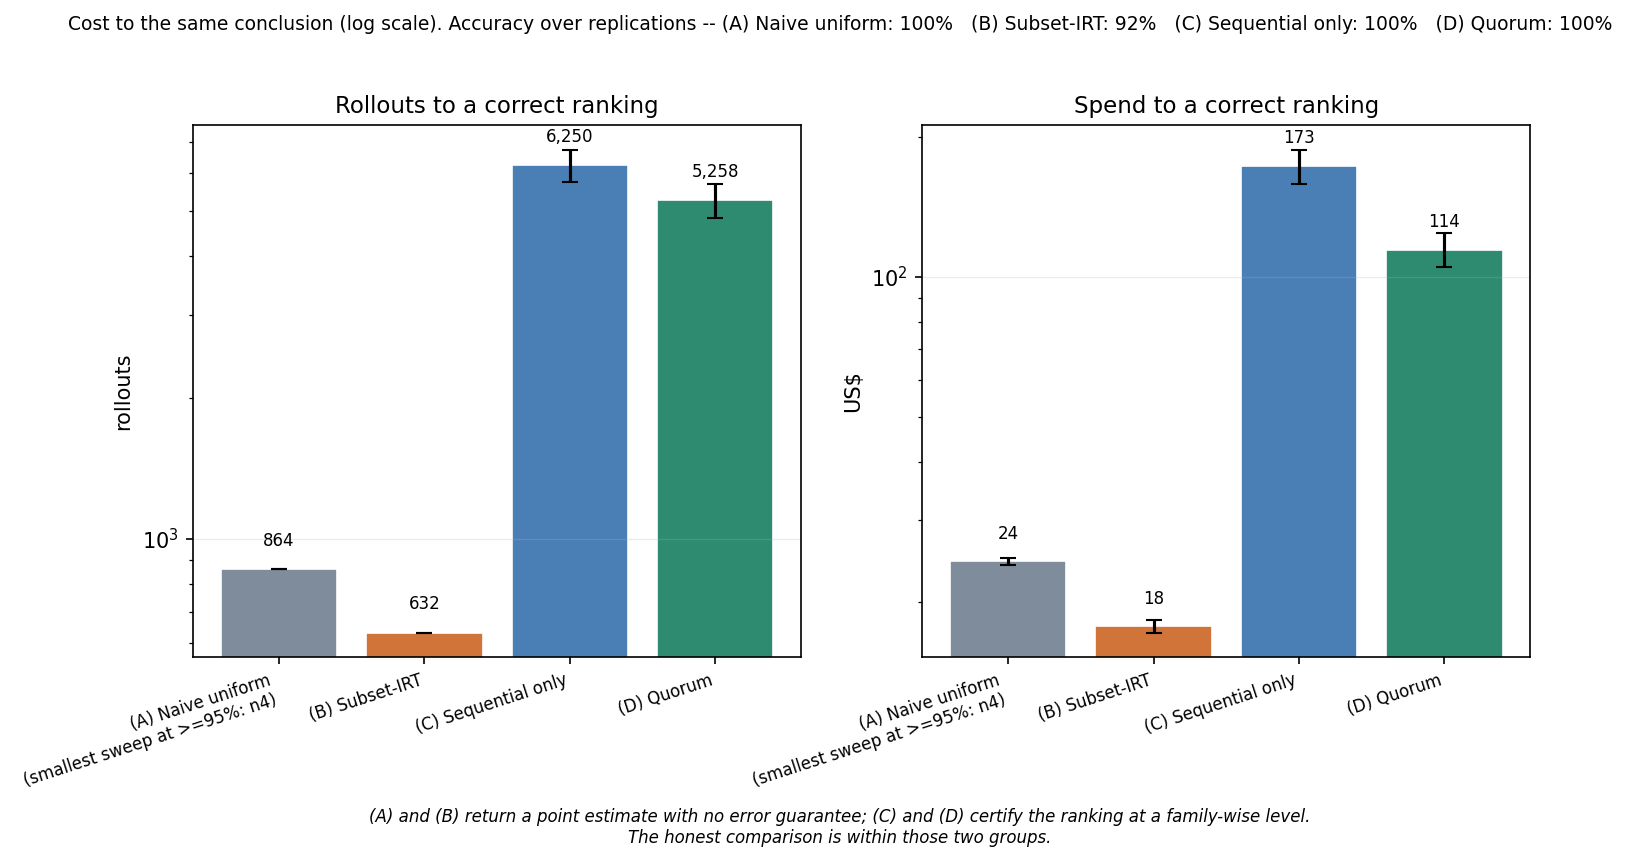
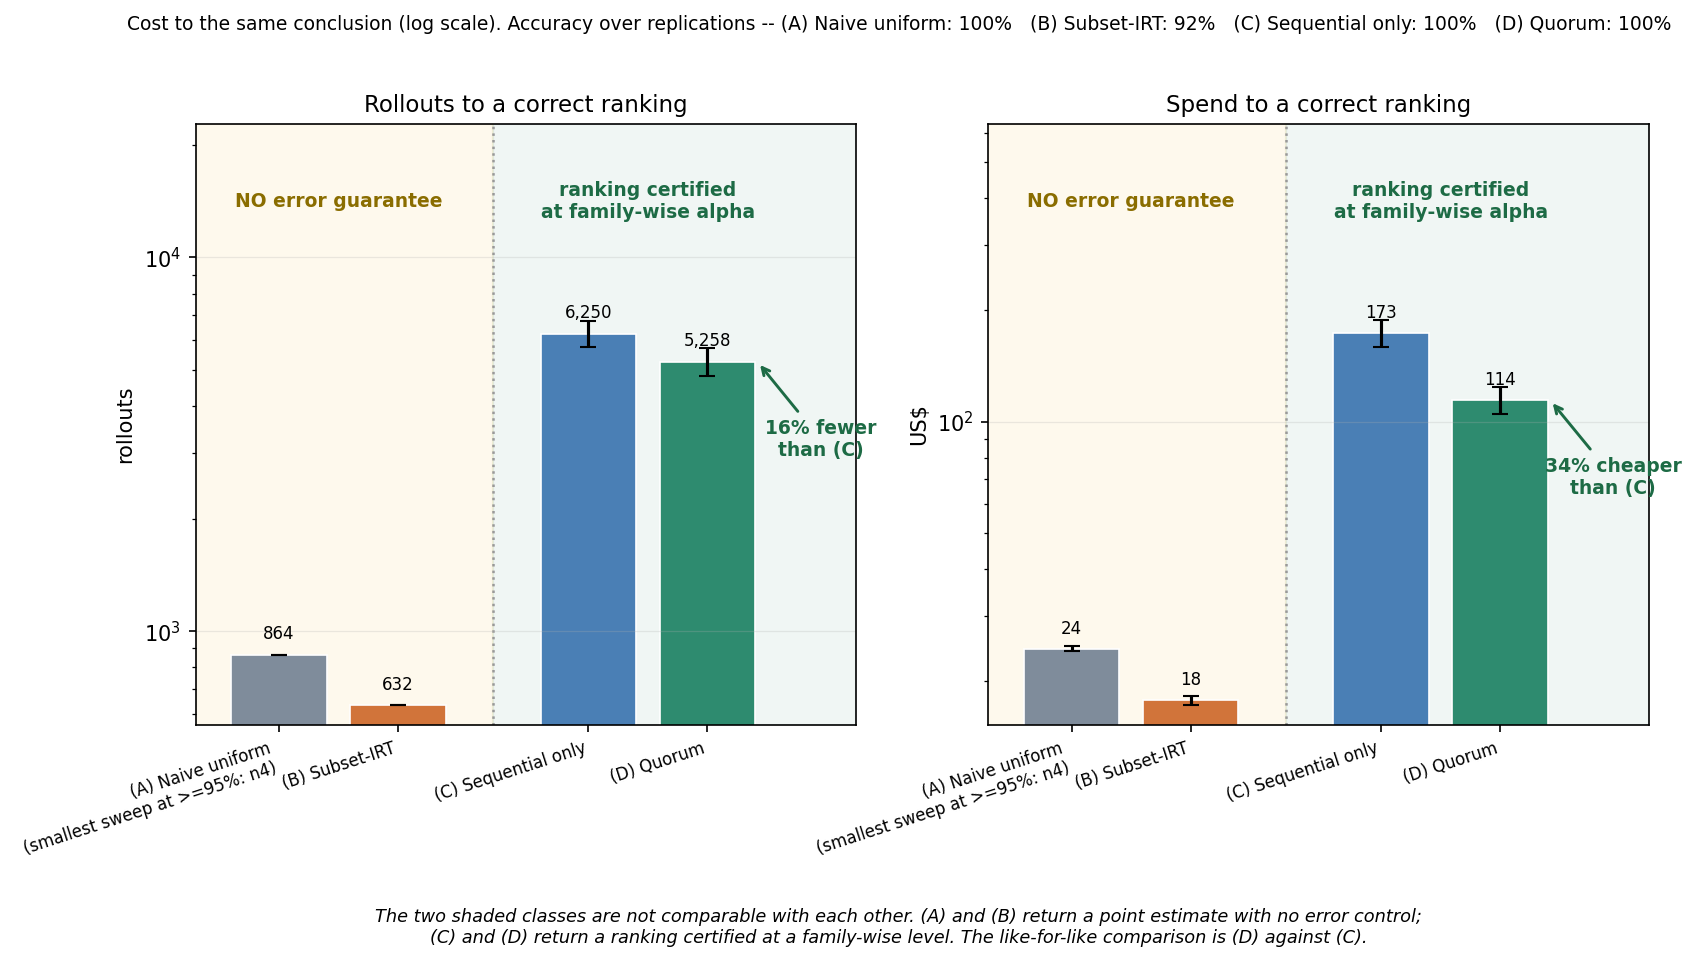
Prepare for publication: grouped headline figure, CI, Space requirements
- fig1 now draws the guarantee/no-guarantee split instead of only captioning it,
  so the misleading cross-group read is no longer the visually dominant one
- fig2 gives (C) and (D) distinct styling; they coincide at 1.00 and one was hidden
- add requirements.txt for the Space runtime and a GitHub Actions test workflow
- point URLs at the real repositories

diff --git a/benchmarks/figures.py b/benchmarks/figures.py
@@ -98,8 +98,18 @@ def fig_cost_to_decision(results: Path, out: Path) -> bool:
     if not rows:
         return False
 
-    fig, axes = plt.subplots(1, 2, figsize=(11.5, 4.6))
-    x = np.arange(len(rows))
+    # Order so the two comparison classes are contiguous, then shade them apart. Placing
+    # an uncertified point estimate beside a certified ranking on one axis invites
+    # exactly the misreading the caption has to spend two lines undoing, so the grouping
+    # is drawn, not just described.
+    guaranteed = {"C_sequential", "D_quorum"}
+    rows = ([r for r in rows if r[0] not in guaranteed]
+            + [r for r in rows if r[0] in guaranteed])
+    n_free = sum(1 for r in rows if r[0] not in guaranteed)
+
+    fig, axes = plt.subplots(1, 2, figsize=(12.5, 5.2))
+    x = np.arange(len(rows), dtype=float)
+    x[n_free:] += 0.6  # a visible gap between the two classes
     for ax, idx, title, unit in (
         (axes[0], 2, "Rollouts to a correct ranking", "rollouts"),
         (axes[1], 3, "Spend to a correct ranking", "US$"),
@@ -109,22 +119,49 @@ def fig_cost_to_decision(results: Path, out: Path) -> bool:
         colours = [PALETTE[r[0]] for r in rows]
         ax.bar(x, vals, yerr=errs, capsize=4, color=colours, edgecolor="white", linewidth=0.8)
         ax.set_yscale("log")
+
+        # Headroom on the log axis so the group headers clear the tallest value label.
+        lo, hi = ax.get_ylim()
+        hi = hi * 3.0
+        split = (x[n_free - 1] + x[n_free]) / 2.0 if 0 < n_free < len(rows) else None
+        if split is not None:
+            ax.axvspan(x[0] - 0.7, split, color="#f2b705", alpha=0.07, zorder=0)
+            ax.axvspan(split, x[-1] + 1.25, color="#2e8b6f", alpha=0.07, zorder=0)
+            ax.axvline(split, color="#999", linestyle=":", linewidth=1.2, zorder=1)
+            ax.text(np.mean(x[:n_free]), hi * 0.62, "NO error guarantee",
+                    ha="center", va="center", fontsize=9, color="#8a6d00", weight="bold")
+            ax.text(np.mean(x[n_free:]), hi * 0.62, "ranking certified\nat family-wise alpha",
+                    ha="center", va="center", fontsize=9, color="#1d6b45", weight="bold")
+        ax.set_xlim(x[0] - 0.7, x[-1] + 1.25)
+        ax.set_ylim(lo, hi)
         ax.set_xticks(x)
         ax.set_xticklabels([r[1] for r in rows], fontsize=8, rotation=18, ha="right")
         ax.set_ylabel(unit)
         ax.set_title(title, fontsize=11)
         ax.grid(axis="y", alpha=0.25, linewidth=0.6)
         for xi, v in zip(x, vals):
-            ax.text(xi, v * 1.12, f"{v:,.0f}", ha="center", fontsize=8)
+            ax.text(xi, v * 1.1, f"{v:,.0f}", ha="center", fontsize=8)
+
+        # Annotate the one comparison that is actually like-for-like.
+        if n_free + 1 < len(rows):
+            c_val, d_val = vals[n_free], vals[n_free + 1]
+            if c_val > 0:
+                ax.annotate(
+                    f"{100 * (1 - d_val / c_val):.0f}% cheaper\nthan (C)"
+                    if idx == 3 else f"{100 * (1 - d_val / c_val):.0f}% fewer\nthan (C)",
+                    xy=(x[n_free + 1] + 0.42, d_val),
+                    xytext=(x[n_free + 1] + 0.95, d_val * 0.62),
+                    ha="center", va="center", fontsize=9, weight="bold", color="#1d6b45",
+                    arrowprops=dict(arrowstyle="->", color="#1d6b45", lw=1.4))
 
     acc = "   ".join(f"{LABELS[r[0]].split(chr(10))[0]}: {r[4]:.0%}" for r in rows)
     fig.suptitle("Cost to the same conclusion (log scale). Accuracy over replications -- "
-                 + acc, fontsize=9, y=1.04)
-    fig.text(0.5, -0.16,
-             "(A) and (B) return a point estimate with no error guarantee; (C) and (D) "
-             "certify the ranking at a family-wise level.\nThe honest comparison is "
-             "within those two groups.",
-             ha="center", fontsize=8, style="italic")
+                 + acc, fontsize=9, y=1.02)
+    fig.text(0.5, -0.17,
+             "The two shaded classes are not comparable with each other. (A) and (B) return a "
+             "point estimate with no error control;\n(C) and (D) return a ranking certified at "
+             "a family-wise level. The like-for-like comparison is (D) against (C).",
+             ha="center", fontsize=8.5, style="italic")
     _save(fig, out / "fig1_cost_to_decision.png")
     return True
 
@@ -137,14 +174,25 @@ def fig_scaffold_shift(results: Path, out: Path) -> bool:
     df = _read(results, "shift.csv")
     if df is None:
         return False
-    fig, ax = plt.subplots(figsize=(7.4, 4.8))
+    fig, ax = plt.subplots(figsize=(7.8, 5.0))
+    # (C) and (D) both sit at 1.0 across the whole sweep, so without distinct styling one
+    # line simply disappears under the other and the figure appears to be missing a
+    # series. Give them different dashes and markers rather than nudging the data.
+    style = {
+        "A_naive": dict(marker="o", linestyle="-", linewidth=2, markersize=6),
+        "B_subset_irt": dict(marker="s", linestyle="-", linewidth=2.6, markersize=7),
+        "C_sequential": dict(marker="^", linestyle="--", linewidth=2.6, markersize=8),
+        "D_quorum": dict(marker="D", linestyle=":", linewidth=2.6, markersize=6),
+    }
     for cond, grp in df.groupby("condition"):
         agg = grp.groupby("shift").correct.agg(["mean", "count"]).reset_index()
         n = agg["count"].clip(lower=1)
         se = np.sqrt(agg["mean"] * (1 - agg["mean"]) / n)
-        ax.errorbar(agg.shift_ if hasattr(agg, "shift_") else agg["shift"], agg["mean"],
-                    yerr=se, marker="o", capsize=3, linewidth=2,
-                    color=PALETTE.get(cond, "#888"), label=LABELS.get(cond, cond))
+        ax.errorbar(agg["shift"], agg["mean"], yerr=se, capsize=3,
+                    color=PALETTE.get(cond, "#888"), label=LABELS.get(cond, cond),
+                    **style.get(cond, dict(marker="o", linestyle="-", linewidth=2)))
+    ax.text(df["shift"].max(), 1.005, "(C) and (D) coincide at 1.00", ha="right",
+            va="bottom", fontsize=8, style="italic", color="#444")
     ax.set_xlabel("scaffold shift (logit units added to the scaffold main effect)")
     ax.set_ylabel("P(correct ranking)")
     ax.set_ylim(-0.03, 1.05)

diff --git a/scripts/push_rollouts.py b/scripts/push_rollouts.py
@@ -39,7 +39,7 @@ SCHEMA_DOC = {
 CARD = """\
 # Rollout-level evaluation records
 
-One row per rollout, produced by or for [Quorum](https://github.com/quorum-eval/quorum).
+One row per rollout, produced by or for [Quorum](https://github.com/NagaYu/quorum).
 
 Rollout-level data is what makes a leaderboard re-analysable: anytime-valid confidence
 sequences, paired scaffold-marginalised contrasts and control-variate adjustments all

diff --git a/README.md b/README.md
@@ -4,7 +4,7 @@ emoji: ⚖
 colorFrom: green
 colorTo: blue
 sdk: gradio
-sdk_version: 5.0.0
+sdk_version: 5.49.1
 app_file: app.py
 pinned: false
 license: apache-2.0
@@ -24,6 +24,8 @@ tags:
 Quorum is a research prototype for rank-targeted **nested sequential experimental design**. It maintains an anytime-valid confidence sequence on model-vs-model contrasts, chooses each next rollout by expected reduction in *rank* uncertainty per dollar, and stops the moment the ordering is certified.
 
 Inference is **design-based and model-assisted**: validity comes from the sampling design (Horvitz–Thompson weighting plus a martingale argument), while a hierarchical Bayesian cell model only steers *where the next rollout goes*. A wrong model costs efficiency, never coverage. That separation is the point of the package.
+
+**Code:** [github.com/NagaYu/quorum](https://github.com/NagaYu/quorum)  ·  **Space:** [huggingface.co/spaces/NagaYu/quorum](https://huggingface.co/spaces/NagaYu/quorum)
 
 ## Quickstart
 
@@ -95,6 +97,8 @@ Measured, not asserted. Regenerate with `python -m benchmarks.run` and `python -
 
 ### Cost to the same conclusion
 
+![Cost to the same conclusion](figures/fig1_cost_to_decision.png)
+
 Grid `6 tasks x 3 seeds x 3 scaffolds x 4 models`, ability gap 0.45, α = 0.05 family-wise, 12 independent worlds, matched seeds:
 
 | Condition | Rollouts | Spend | Correct ranking | Error guarantee |
@@ -111,6 +115,8 @@ Grid `6 tasks x 3 seeds x 3 scaffolds x 4 models`, ability gap 0.45, α = 0.05 f
 
 ### Robustness to a scaffold shift
 
+![Accuracy under a scaffold shift](figures/fig2_scaffold_shift.png)
+
 A shift adds to the scaffold main effect: absolute scores move a lot, the true ranking does not. (B)'s anchor set is fitted once and reused, as published anchor sets are.
 
 | Shift (logits) | 0.0 | 0.6 | 1.2 | 1.8 | 2.4 | 3.0 |
@@ -123,6 +129,8 @@ A shift adds to the scaffold main effect: absolute scores move a lot, the true r
 P(correct ranking) over 12 worlds. (B) degrades because its estimand is *absolute ability* read off a frozen anchor set; (C)/(D) estimate a scaffold-marginalised paired contrast and are unaffected.
 
 ### Coverage
+
+![Coverage](figures/fig3_coverage.png)
 
 Null pair (two models with identical ability, so *any* rejection is an error), 300 replications per cell:
 
@@ -225,7 +233,9 @@ SPEC.md            the authoritative math and interface contract
 ```bibtex
 @software{quorum2026,
   title  = {Quorum: rank-targeted nested sequential design for LLM evaluation},
+  author = {Nagao, Yuta},
   year   = {2026},
+  url    = {https://github.com/NagaYu/quorum},
   note   = {Research prototype. Apache-2.0.}
 }
 ```
